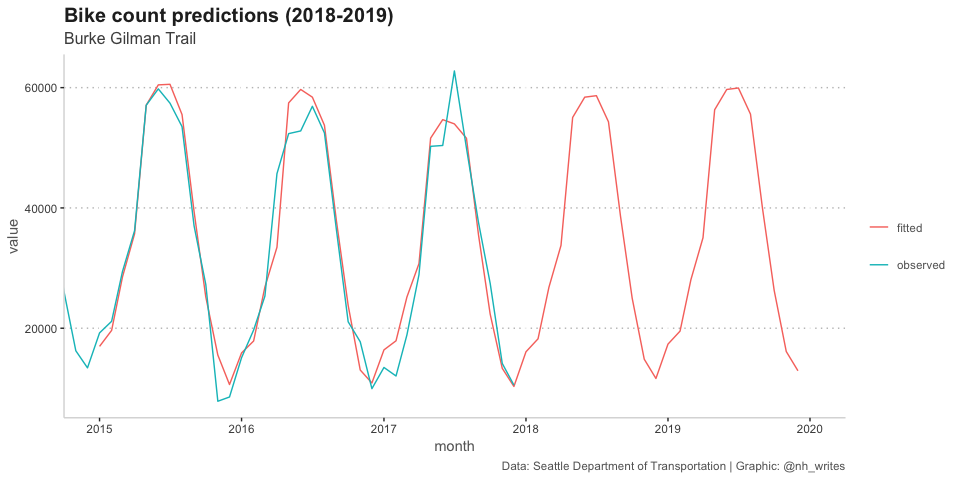
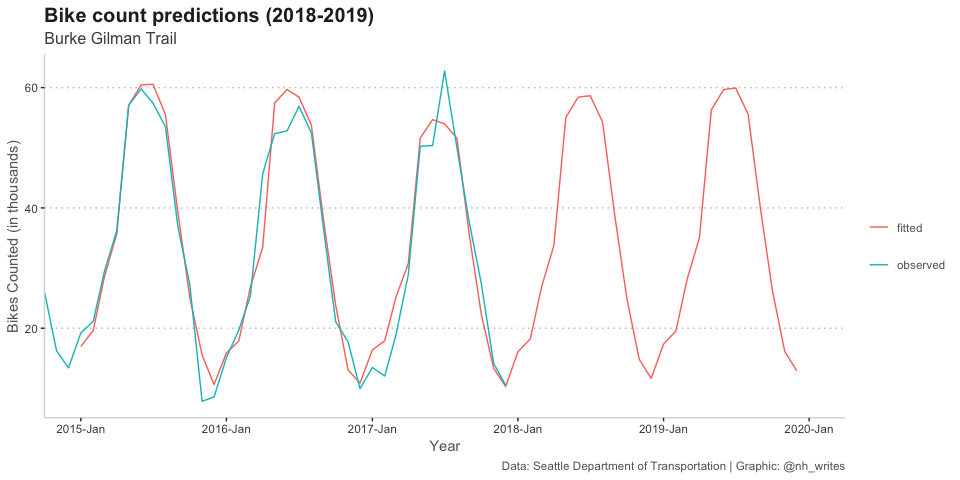
trying out some time series modeling

diff --git a/2019-14/SeattleBikes.md b/2019-14/SeattleBikes.md
@@ -333,13 +333,15 @@ df_plot <- data.frame(fitted = as.matrix(biketimeseries_forecast_pred[["fitted"]
   gather(key = "variable", value = "value", -month)
   
 
-ggplot(df_plot, aes(x = month, y = value, color = variable)) +
+ggplot(df_plot, aes(x = month, y = value / 1000, color = variable)) +
   geom_line() +
   nh_theme +
   coord_cartesian(xlim = c(as.Date("2015-01-01"), as.Date("2020-01-01"))) +
   scale_color_discrete(name = "") +
-  scale_x_date(date_breaks = "1 year", date_labels = "%Y") +
-  labs(title = "Bike count predictions (2018-2019)",
+  scale_x_date(date_breaks = "1 year", date_labels = "%Y-%b") +
+  labs(y = "Bikes Counted (in thousands)",
+       x = "Year",
+       title = "Bike count predictions (2018-2019)",
        subtitle = "Burke Gilman Trail",
        caption = "Data: Seattle Department of Transportation | Graphic: @nh_writes")
 ```
